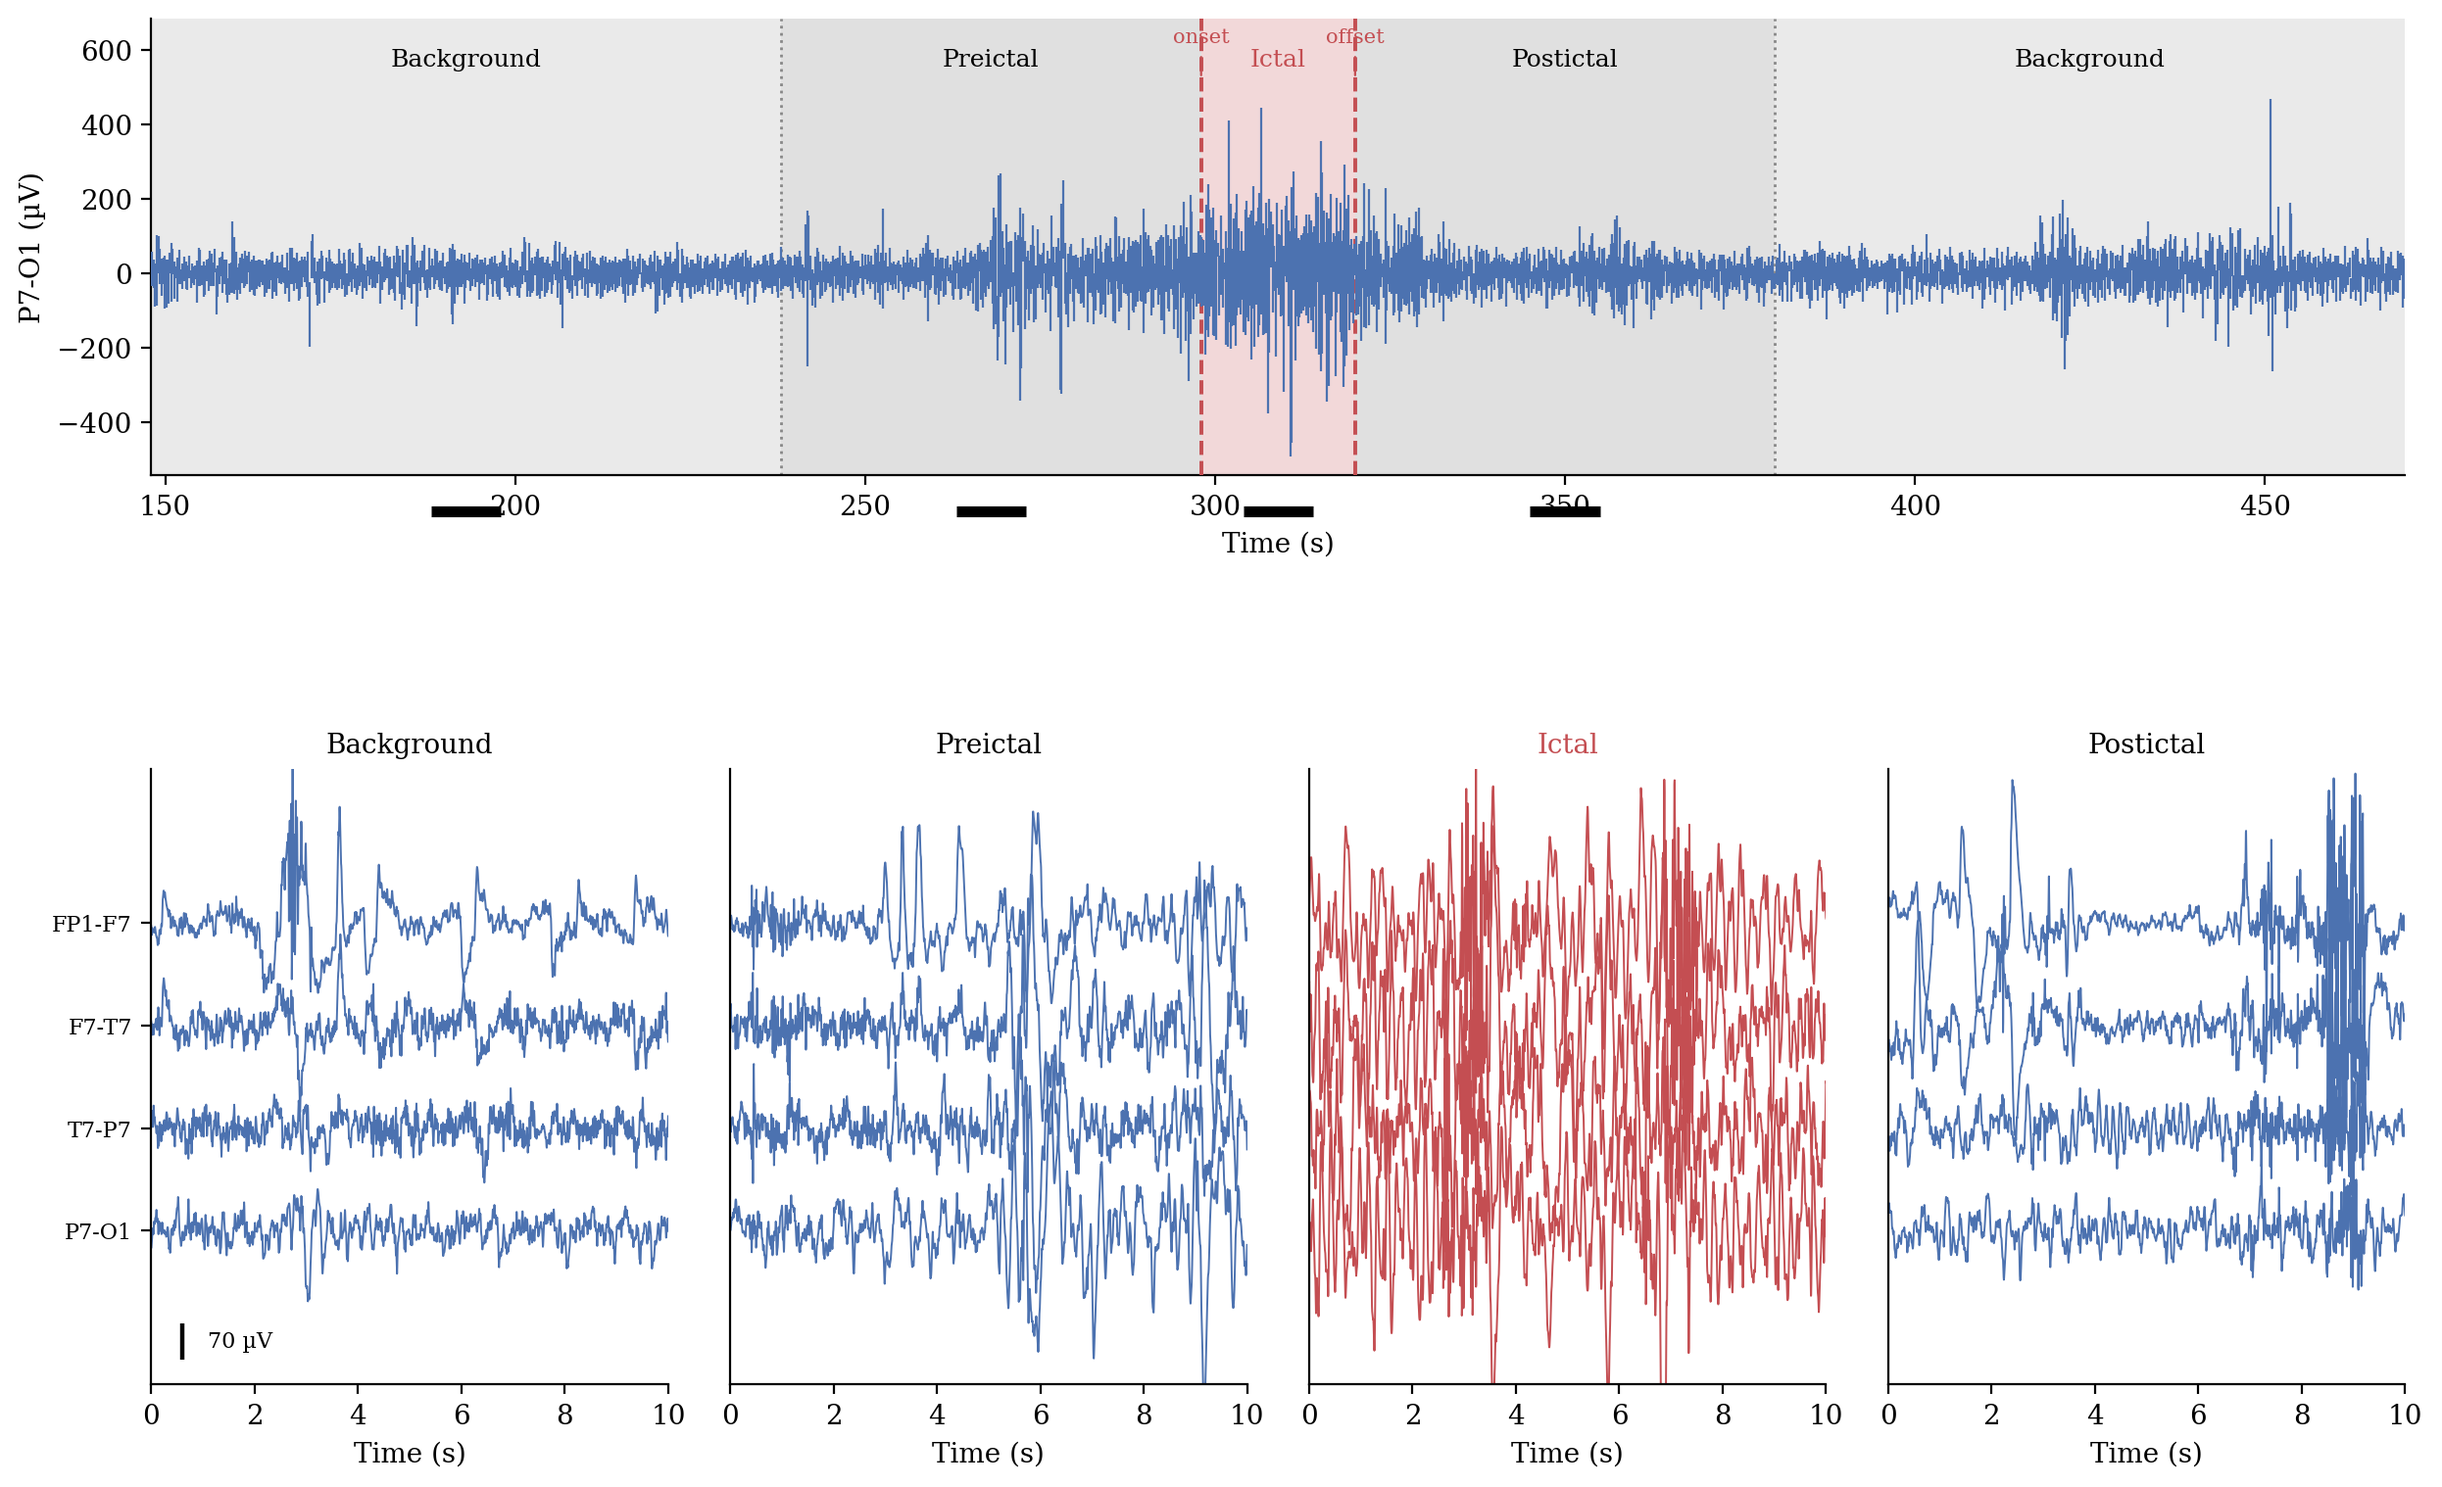
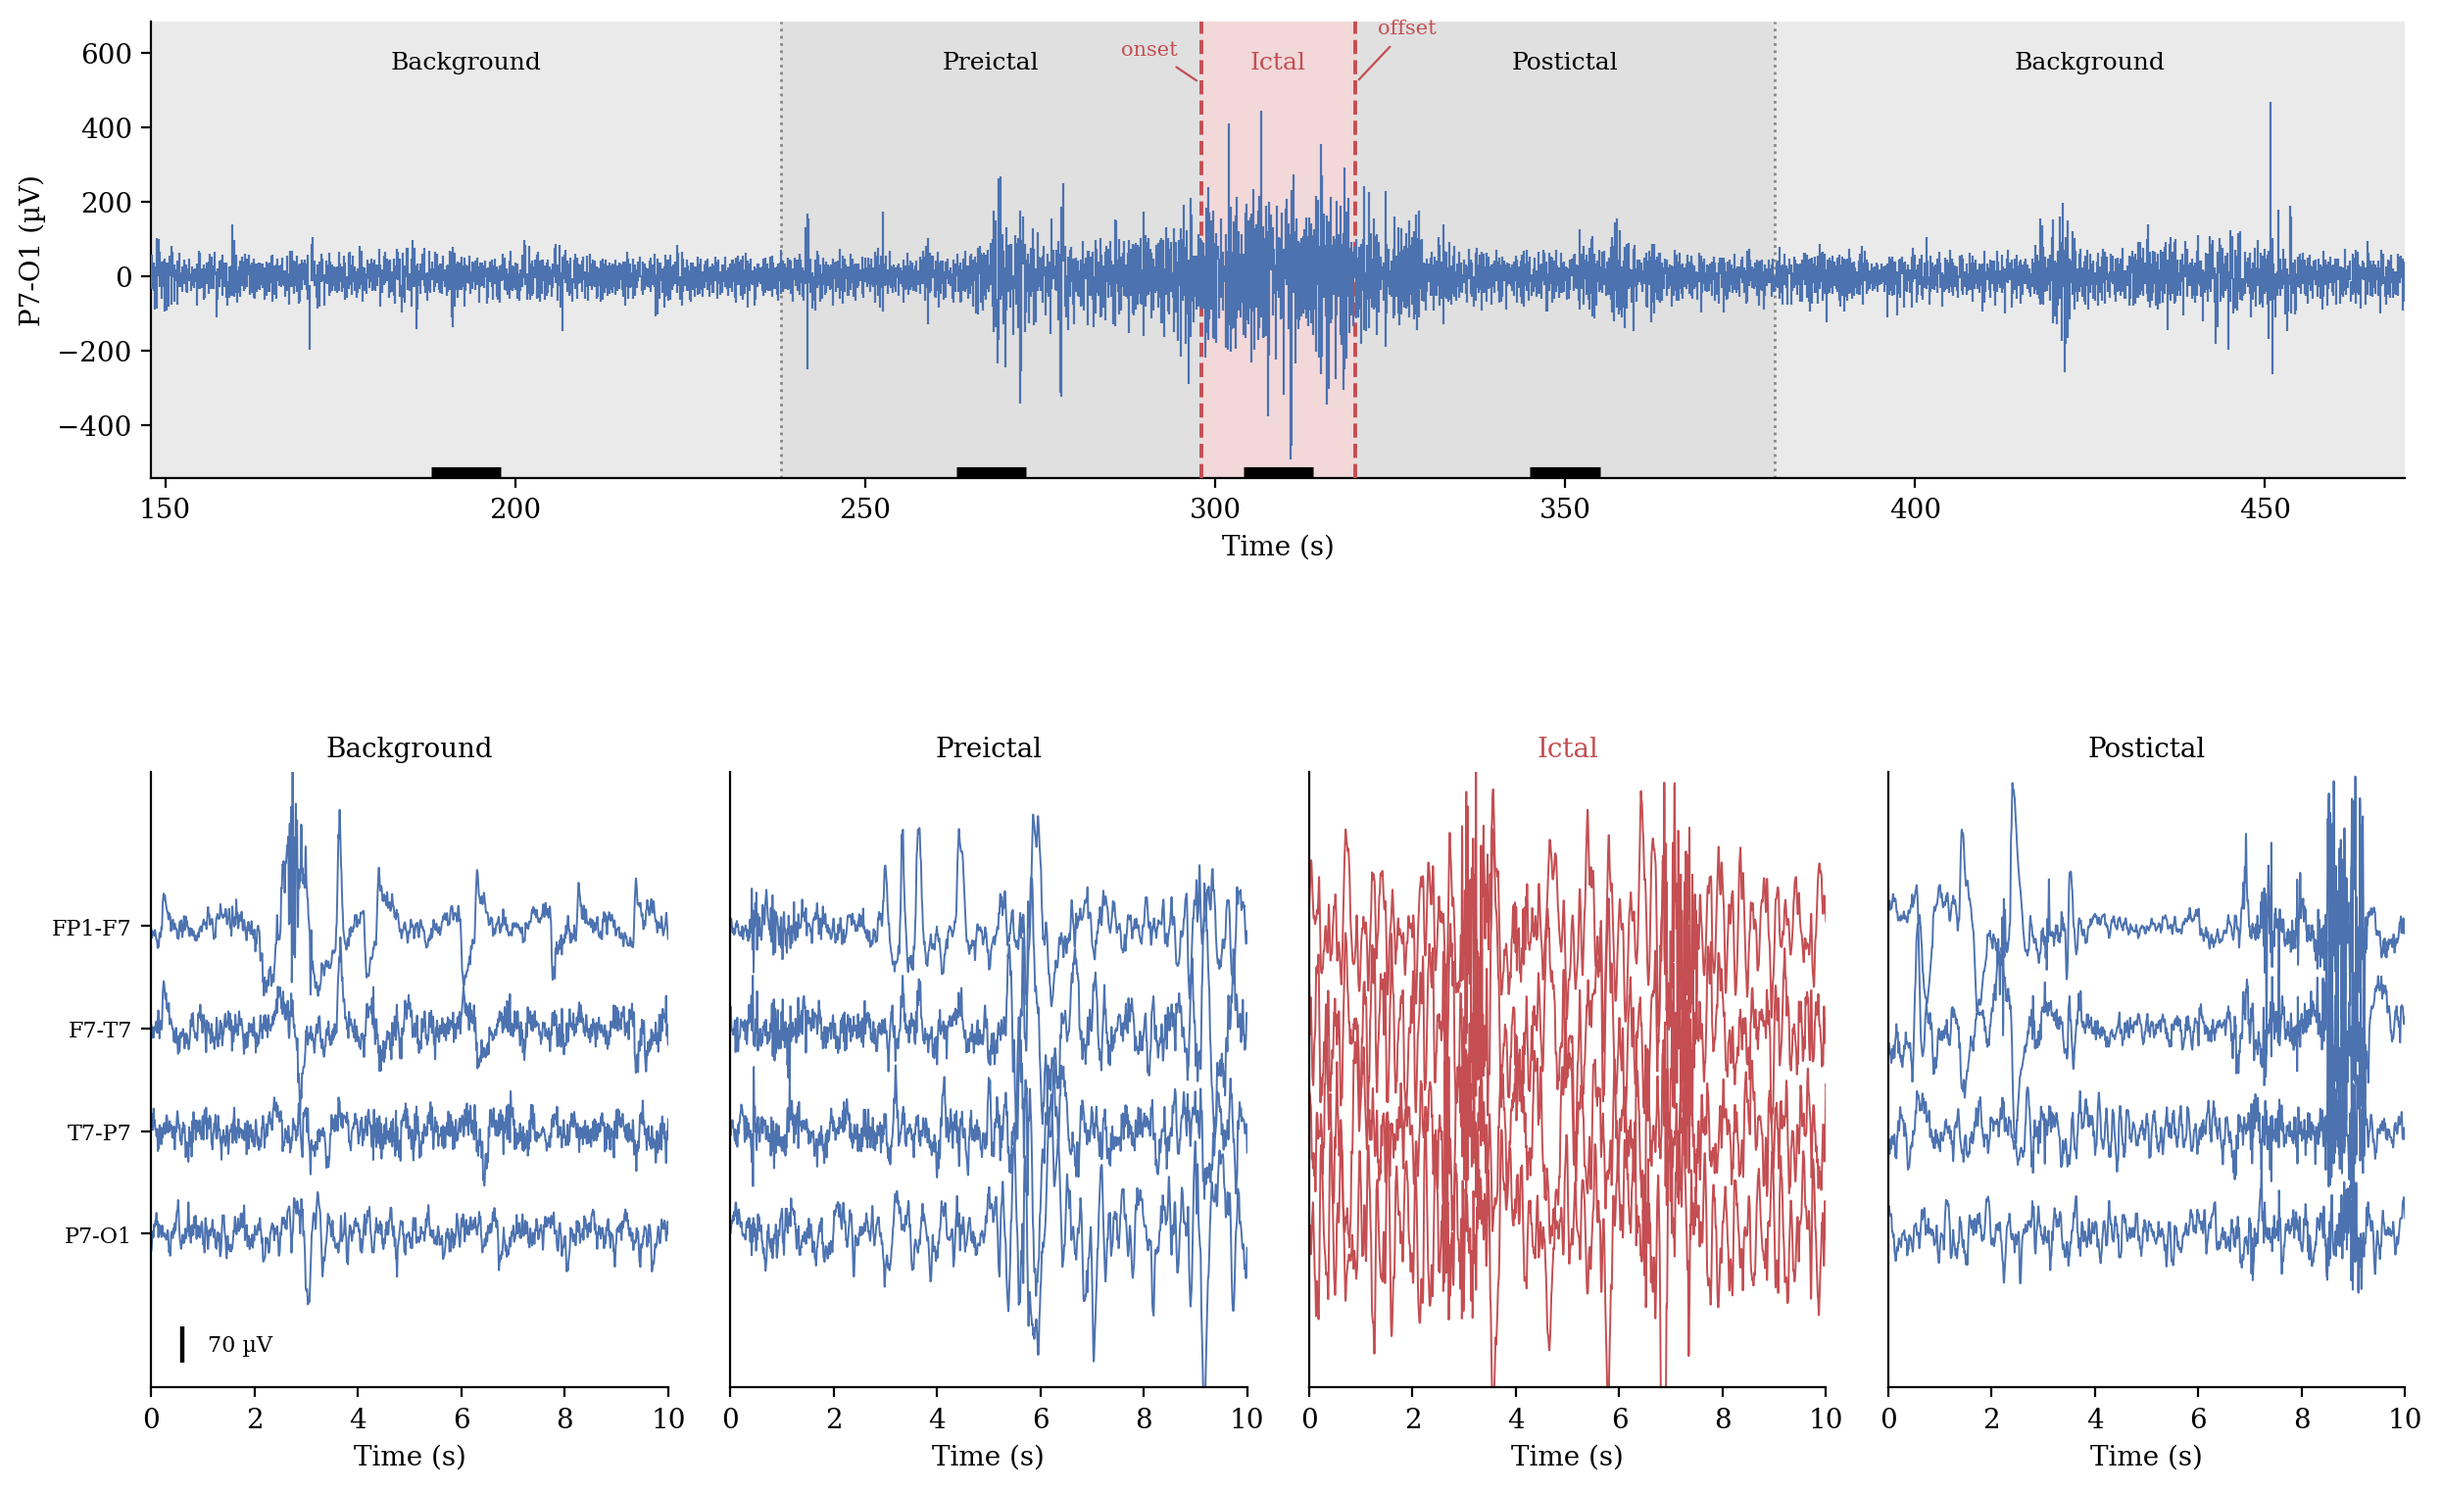
Round 9: fix Fig 1.1 and Fig 4.1 label collisions, track drawio sources
- Fig 1.1: move the excerpt bracket markers off the tick-label numbers
  (small positive axes-fraction, above the spine, instead of below it);
  stagger the onset/offset labels vertically and nudge them outward so
  they no longer collide with each other or the ictal shading edge.
- Fig 4.1: move the "Community challenge 2025, winner" label below its
  point instead of up toward "Best point, located after scoring", which
  it was reading as one block with at print size.
- tables/README.md: drop the note about tables_ch1.md's shorter rules
  block now that the supplied replacement carries a matching one.
- .gitignore: add an explicit exception for figures/drawio_sources/ so
  the hand-drawn diagrams' editable sources are tracked -- the blanket
  /figures/* rule would otherwise swallow the directory the same way it
  swallowed figures/tables/ for two rounds running. Directory created.

Repository check: figures/tables/ no longer exists. git status --ignored
on figures/ turns up one file outside figures/archive/ or
figures/drawio_sources/: figures/figures.rar (622 KB, untracked, RAR v5),
flagged for the user rather than acted on.

Claude-Session: https://claude.ai/code/session_01Wr3Hr34pHM4A8K4UE7yjxP

diff --git a/src/figures/fig1_1_seizure_phases.py b/src/figures/fig1_1_seizure_phases.py
@@ -217,17 +217,28 @@ def main():
         ax_top.text(xc, label_y, name, ha="center", va="bottom", fontsize=9,
                     color=(ICTAL if name == "Ictal" else "black"), clip_on=False)
 
-    ax_top.annotate("onset", xy=(ONSET_S, y_top), xytext=(ONSET_S, y_top * 1.20),
-                    ha="center", fontsize=7.5, color=ICTAL,
+    # Round 9 item 1: onset/offset are only 22 s apart, so centred labels at
+    # the same height collide with each other and with the ictal shading
+    # edge. Staggered heights plus an outward horizontal nudge (away from
+    # the shaded interval) clear both.
+    onset_span = OFFSET_S - ONSET_S
+    nudge = max(2.0, 0.15 * onset_span)
+    ax_top.annotate("onset", xy=(ONSET_S, y_top), xytext=(ONSET_S - nudge, y_top * 1.13),
+                    ha="right", va="bottom", fontsize=7.5, color=ICTAL,
                     arrowprops=dict(arrowstyle="-", color=ICTAL, lw=0.8))
-    ax_top.annotate("offset", xy=(OFFSET_S, y_top), xytext=(OFFSET_S, y_top * 1.20),
-                    ha="center", fontsize=7.5, color=ICTAL,
+    ax_top.annotate("offset", xy=(OFFSET_S, y_top), xytext=(OFFSET_S + nudge, y_top * 1.24),
+                    ha="left", va="bottom", fontsize=7.5, color=ICTAL,
                     arrowprops=dict(arrowstyle="-", color=ICTAL, lw=0.8))
 
-    # Brackets beneath the overview marking where each excerpt was taken from.
+    # Brackets marking where each excerpt was taken from. Round 9 item 1:
+    # -0.08 axes-fraction (below the spine) sat on top of the tick-label
+    # numbers. Moved to a small POSITIVE axes-fraction instead -- just above
+    # the axis line, inside the autoscale margin below the lowest trace
+    # excursion -- which clears the tick labels entirely by sitting on the
+    # opposite side of the spine.
     trans = mtransforms.blended_transform_factory(ax_top.transData, ax_top.transAxes)
     for name, (t0, t1) in excerpts.items():
-        ax_top.plot([t0, t1], [-0.08, -0.08], transform=trans, color="black", lw=4.0,
+        ax_top.plot([t0, t1], [0.012, 0.012], transform=trans, color="black", lw=4.0,
                     solid_capstyle="butt", clip_on=False, zorder=5)
 
     ax_top.set_xlim(background_pre_start, background_post_end)

diff --git a/src/figures/fig4_1_comparison.py b/src/figures/fig4_1_comparison.py
@@ -157,7 +157,7 @@ def main():
     label_offsets = {
         "Ali et al. 2024, 5-fold": (14, 22),
         "Ali et al. 2024, leave-one-out": (14, -30),
-        "Community challenge 2025, winner": (38, 14),
+        "Community challenge 2025, winner": (14, -32),
     }
     for p in PUBLISHED_POINTS:
         marker = same_corpus_marker if p["same_corpus"] else diff_corpus_marker

diff --git a/tables/README.md b/tables/README.md
@@ -9,7 +9,9 @@ This directory replaces the single `docs/TABLES_PACK.md` (moved to `docs/archive
 docs/FIGURE_ROUND6.md §4) and the CSV outputs formerly under `results/report_tables/` (moved to
 `tables/csv/` by the same round). `docs/FIGURE_ROUND8.md` §4 added `tables_ch1.md` and filed the
 eight qualitative tables (previously collected in `TABLES_QUALITATIVE.md`) into their chapter
-files; that source file is archived at `docs/archive/TABLES_QUALITATIVE.md`.
+files; that source file is archived at `docs/archive/TABLES_QUALITATIVE.md`. `docs/FIGURE_ROUND9.md`
+§3 replaced `tables_ch1.md` with a supplied version carrying the same rules block as the other
+chapter files.
 
 ## Where each table lives
 
@@ -27,10 +29,8 @@ this work's two rows to the same landscape and draws the comparison.
 
 Each of the five files above repeats the rules section (decimal convention, no-blank-cells rule,
 source-line requirement) in full at its own top, so a writer opening one file does not have to
-find another to know the conventions. **Exception:** `tables/tables_ch1.md` is supplied from
-outside this pack and was not rewritten to match; it opens with its own shorter rules paragraph
-rather than the numbered "Rules applied throughout" list the other four files share. The content
-is otherwise complete and is not to be modified here.
+find another to know the conventions. `tables/tables_ch1.md` was replaced in Round 9 with a
+supplied version whose rules block now matches the other four chapter files.
 
 ## `tables/csv/`
 
